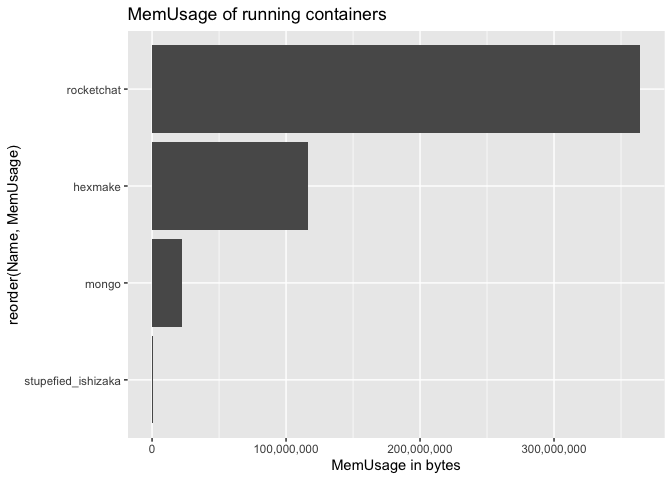
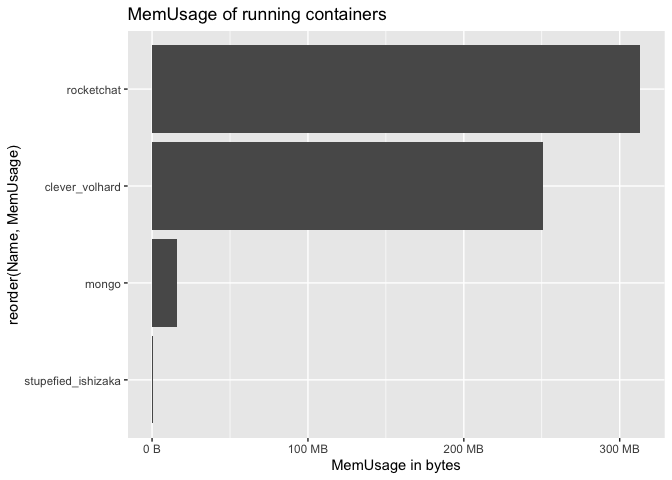
label_bytes()

diff --git a/README.md b/README.md
@@ -36,21 +36,25 @@ By default, `dockerstats()` returns the stats for running containers.
 ``` r
 dockerstats()
 #>      Container               Name
-#> 1 7f3b0a08a7aa stupefied_ishizaka
-#> 2 1c32d35562fb         rocketchat
-#> 3 9e9605a015d4              mongo
+#> 1 3ed5a6b4b8d0     clever_volhard
+#> 2 7f3b0a08a7aa stupefied_ishizaka
+#> 3 1c32d35562fb         rocketchat
+#> 4 9e9605a015d4              mongo
 #>                                                                 ID CPUPerc
-#> 1 7f3b0a08a7aa502657d0d5459f9cd412f0399825f8e15262bf47fe0cd4cc825d    0.00
-#> 2 1c32d35562fbd442c75e132e4075f379fc2097293a1ab0b5361debf2d4ab74cb    0.93
-#> 3 9e9605a015d4378283947ed16f547a8272039ec853b4962010203204d2c05167    2.99
-#>   MemUsage MemLimit MemPerc   NetI   NetO BlockI BlockO PIDs
-#> 1   516KiB 1.943GiB    0.03 9.59kB     0B     0B     0B    1
-#> 2 347.2MiB 1.943GiB   17.45  121MB 98.4MB     0B     0B   12
-#> 3 21.32MiB 1.943GiB    1.07 98.3MB  120MB     0B     0B   55
-#>           record_time extra
-#> 1 2020-04-11 23:39:56      
-#> 2 2020-04-11 23:39:56      
-#> 3 2020-04-11 23:39:56
+#> 1 3ed5a6b4b8d0540f93f04f46411c8559fc2b942d1c7b5122ac956189508d5372    0.10
+#> 2 7f3b0a08a7aa502657d0d5459f9cd412f0399825f8e15262bf47fe0cd4cc825d    0.00
+#> 3 1c32d35562fbd442c75e132e4075f379fc2097293a1ab0b5361debf2d4ab74cb    0.58
+#> 4 9e9605a015d4378283947ed16f547a8272039ec853b4962010203204d2c05167    2.93
+#>   MemUsage MemLimit MemPerc   NetI  NetO BlockI BlockO PIDs         record_time
+#> 1 239.2MiB 1.943GiB   12.02 31.4kB 644kB     0B     0B    4 2020-04-13 12:02:55
+#> 2   332KiB 1.943GiB    0.02 14.4kB    0B     0B     0B    1 2020-04-13 12:02:55
+#> 3   299MiB 1.943GiB   15.03  176MB 144MB     0B     0B   12 2020-04-13 12:02:55
+#> 4 15.18MiB 1.943GiB    0.76  144MB 176MB     0B     0B   55 2020-04-13 12:02:55
+#>   extra
+#> 1      
+#> 2      
+#> 3      
+#> 4
 ```
 
 You can return stats for all containers (not just running)
@@ -58,93 +62,97 @@ You can return stats for all containers (not just running)
 ``` r
 dockerstats(all = TRUE)
 #>       Container                    Name
-#> 1  dbcf81982870   mystifying_hofstadter
-#> 2  841be05ca06f           nice_einstein
-#> 3  bdac8ae662bd           rocketchating
-#> 4  ad640c7420ea     compassionate_ellis
-#> 5  ea890803de3c           sleepy_colden
-#> 6  5cef479fec0e           boring_swartz
-#> 7  658ed62c82ed            elegant_pare
-#> 8  d74bd9004627          exciting_yalow
-#> 9  f5cb6430e103      gallant_lichterman
-#> 10 f8c3f4b47931 heuristic_proskuriakova
-#> 11 1a8588105357          pedantic_booth
-#> 12 7c16ac79e629           focused_chaum
-#> 13 e2f0dc1dab14           boring_liskov
-#> 14 7f3b0a08a7aa      stupefied_ishizaka
-#> 15 194f087c356e       boring_mcclintock
-#> 16 7f575179ad72       flamboyant_sammet
-#> 17 82b75a1bdbe8                    jack
-#> 18 5b1197c61bfb                   login
-#> 19 ca323ae39e42                   proxy
-#> 20 1c32d35562fb              rocketchat
-#> 21 9e9605a015d4                   mongo
+#> 1  3ed5a6b4b8d0          clever_volhard
+#> 2  dbcf81982870   mystifying_hofstadter
+#> 3  841be05ca06f           nice_einstein
+#> 4  bdac8ae662bd           rocketchating
+#> 5  ad640c7420ea     compassionate_ellis
+#> 6  ea890803de3c           sleepy_colden
+#> 7  5cef479fec0e           boring_swartz
+#> 8  658ed62c82ed            elegant_pare
+#> 9  d74bd9004627          exciting_yalow
+#> 10 f5cb6430e103      gallant_lichterman
+#> 11 f8c3f4b47931 heuristic_proskuriakova
+#> 12 1a8588105357          pedantic_booth
+#> 13 7c16ac79e629           focused_chaum
+#> 14 e2f0dc1dab14           boring_liskov
+#> 15 7f3b0a08a7aa      stupefied_ishizaka
+#> 16 194f087c356e       boring_mcclintock
+#> 17 7f575179ad72       flamboyant_sammet
+#> 18 82b75a1bdbe8                    jack
+#> 19 5b1197c61bfb                   login
+#> 20 ca323ae39e42                   proxy
+#> 21 1c32d35562fb              rocketchat
+#> 22 9e9605a015d4                   mongo
 #>                                                                  ID CPUPerc
-#> 1  dbcf81982870c42b73534e3e1e41ad5871c0dcb3d4f9b4b8a97b71f4d1bd5eb2    0.00
-#> 2  841be05ca06f9b96fce842e426fc2d23a5ce968c898bd401ddcd7057ae790ac7    0.00
-#> 3  bdac8ae662bd5c4b647fad89b73c95a66f84406a07d9e1c4e0db5a0eff33ad6b    0.00
-#> 4  ad640c7420ea021453866e974666b7337885220238dadd3b717fa42bc51f3b26    0.00
-#> 5  ea890803de3c6bf430c39b4c9e03ae79f18a01f453fe6794ca2d02882c2f905b    0.00
-#> 6  5cef479fec0e5a8ab1b8940364ff4779e4abb2adfd2a9f8dbe1f6f470cb5d9c1    0.00
-#> 7  658ed62c82edbb32979c2adac7ad75ce65b41bfb7044758e34c79d45804a6f31    0.00
-#> 8  d74bd9004627efa518ea0fe669434fa6ccd2f86491e39311c9211bfb860839e2    0.00
-#> 9  f5cb6430e103fc3c0e57942e8a96f84ffc55f4006cd089e1be5a82bfec808935    0.00
-#> 10 f8c3f4b4793146069b336db2ec8d96732920eac759991138ba0695d05a8e2de6    0.00
-#> 11 1a8588105357e77d1e284615d7461a259c41f654c5db66e3b8964fa5395a4d65    0.00
-#> 12 7c16ac79e629e7d74137840876561733614aea265c4876c360160cd258e85d5f    0.00
-#> 13 e2f0dc1dab146b1b0418f3cd620fdaa0ba40645aa822b10261e8ba221499aaa2    0.00
-#> 14 7f3b0a08a7aa502657d0d5459f9cd412f0399825f8e15262bf47fe0cd4cc825d    0.00
-#> 15 194f087c356e992778f8ddac61eeb4e4e107caee43af8c1d8072e6aad425f97a    0.00
-#> 16 7f575179ad72079840887cd52ad0fe5a97313d4864414e35660c8740265351ff    0.00
-#> 17 82b75a1bdbe8ce1750210646c02a4dd24c0113c162de2f58d6534c0b25e8b2f0    0.00
-#> 18 5b1197c61bfba9614ccea0c69f9ae048e44e85ac0e64f36f240bc9220f962f5d    0.00
-#> 19 ca323ae39e42d898417b019b2bf7f06feaf877d248cd71b9cad8eebc3f5e1126    0.00
-#> 20 1c32d35562fbd442c75e132e4075f379fc2097293a1ab0b5361debf2d4ab74cb    4.71
-#> 21 9e9605a015d4378283947ed16f547a8272039ec853b4962010203204d2c05167    2.92
-#>    MemUsage MemLimit MemPerc   NetI   NetO BlockI BlockO PIDs
-#> 1        0B       0B    0.00     0B     0B     0B     0B    0
-#> 2        0B       0B    0.00     0B     0B     0B     0B    0
-#> 3        0B       0B    0.00     0B     0B     0B     0B    0
-#> 4        0B       0B    0.00     0B     0B     0B     0B    0
-#> 5        0B       0B    0.00     0B     0B     0B     0B    0
-#> 6        0B       0B    0.00     0B     0B     0B     0B    0
-#> 7        0B       0B    0.00     0B     0B     0B     0B    0
-#> 8        0B       0B    0.00     0B     0B     0B     0B    0
-#> 9        0B       0B    0.00     0B     0B     0B     0B    0
-#> 10       0B       0B    0.00     0B     0B     0B     0B    0
-#> 11       0B       0B    0.00     0B     0B     0B     0B    0
-#> 12       0B       0B    0.00     0B     0B     0B     0B    0
-#> 13       0B       0B    0.00     0B     0B     0B     0B    0
-#> 14   516KiB 1.943GiB    0.03 9.59kB     0B     0B     0B    1
-#> 15       0B       0B    0.00     0B     0B     0B     0B    0
-#> 16       0B       0B    0.00     0B     0B     0B     0B    0
-#> 17       0B       0B    0.00     0B     0B     0B     0B    0
-#> 18       0B       0B    0.00     0B     0B     0B     0B    0
-#> 19       0B       0B    0.00     0B     0B     0B     0B    0
-#> 20 347.6MiB 1.943GiB   17.47  121MB 98.4MB     0B     0B   12
-#> 21 21.32MiB 1.943GiB    1.07 98.3MB  120MB     0B     0B   55
+#> 1  3ed5a6b4b8d0540f93f04f46411c8559fc2b942d1c7b5122ac956189508d5372    0.11
+#> 2  dbcf81982870c42b73534e3e1e41ad5871c0dcb3d4f9b4b8a97b71f4d1bd5eb2    0.00
+#> 3  841be05ca06f9b96fce842e426fc2d23a5ce968c898bd401ddcd7057ae790ac7    0.00
+#> 4  bdac8ae662bd5c4b647fad89b73c95a66f84406a07d9e1c4e0db5a0eff33ad6b    0.00
+#> 5  ad640c7420ea021453866e974666b7337885220238dadd3b717fa42bc51f3b26    0.00
+#> 6  ea890803de3c6bf430c39b4c9e03ae79f18a01f453fe6794ca2d02882c2f905b    0.00
+#> 7  5cef479fec0e5a8ab1b8940364ff4779e4abb2adfd2a9f8dbe1f6f470cb5d9c1    0.00
+#> 8  658ed62c82edbb32979c2adac7ad75ce65b41bfb7044758e34c79d45804a6f31    0.00
+#> 9  d74bd9004627efa518ea0fe669434fa6ccd2f86491e39311c9211bfb860839e2    0.00
+#> 10 f5cb6430e103fc3c0e57942e8a96f84ffc55f4006cd089e1be5a82bfec808935    0.00
+#> 11 f8c3f4b4793146069b336db2ec8d96732920eac759991138ba0695d05a8e2de6    0.00
+#> 12 1a8588105357e77d1e284615d7461a259c41f654c5db66e3b8964fa5395a4d65    0.00
+#> 13 7c16ac79e629e7d74137840876561733614aea265c4876c360160cd258e85d5f    0.00
+#> 14 e2f0dc1dab146b1b0418f3cd620fdaa0ba40645aa822b10261e8ba221499aaa2    0.00
+#> 15 7f3b0a08a7aa502657d0d5459f9cd412f0399825f8e15262bf47fe0cd4cc825d    0.00
+#> 16 194f087c356e992778f8ddac61eeb4e4e107caee43af8c1d8072e6aad425f97a    0.00
+#> 17 7f575179ad72079840887cd52ad0fe5a97313d4864414e35660c8740265351ff    0.00
+#> 18 82b75a1bdbe8ce1750210646c02a4dd24c0113c162de2f58d6534c0b25e8b2f0    0.00
+#> 19 5b1197c61bfba9614ccea0c69f9ae048e44e85ac0e64f36f240bc9220f962f5d    0.00
+#> 20 ca323ae39e42d898417b019b2bf7f06feaf877d248cd71b9cad8eebc3f5e1126    0.00
+#> 21 1c32d35562fbd442c75e132e4075f379fc2097293a1ab0b5361debf2d4ab74cb    0.13
+#> 22 9e9605a015d4378283947ed16f547a8272039ec853b4962010203204d2c05167    2.59
+#>    MemUsage MemLimit MemPerc   NetI  NetO BlockI BlockO PIDs
+#> 1  239.2MiB 1.943GiB   12.02 31.4kB 644kB     0B     0B    4
+#> 2        0B       0B    0.00     0B    0B     0B     0B    0
+#> 3        0B       0B    0.00     0B    0B     0B     0B    0
+#> 4        0B       0B    0.00     0B    0B     0B     0B    0
+#> 5        0B       0B    0.00     0B    0B     0B     0B    0
+#> 6        0B       0B    0.00     0B    0B     0B     0B    0
+#> 7        0B       0B    0.00     0B    0B     0B     0B    0
+#> 8        0B       0B    0.00     0B    0B     0B     0B    0
+#> 9        0B       0B    0.00     0B    0B     0B     0B    0
+#> 10       0B       0B    0.00     0B    0B     0B     0B    0
+#> 11       0B       0B    0.00     0B    0B     0B     0B    0
+#> 12       0B       0B    0.00     0B    0B     0B     0B    0
+#> 13       0B       0B    0.00     0B    0B     0B     0B    0
+#> 14       0B       0B    0.00     0B    0B     0B     0B    0
+#> 15   332KiB 1.943GiB    0.02 14.4kB    0B     0B     0B    1
+#> 16       0B       0B    0.00     0B    0B     0B     0B    0
+#> 17       0B       0B    0.00     0B    0B     0B     0B    0
+#> 18       0B       0B    0.00     0B    0B     0B     0B    0
+#> 19       0B       0B    0.00     0B    0B     0B     0B    0
+#> 20       0B       0B    0.00     0B    0B     0B     0B    0
+#> 21 299.1MiB 1.943GiB   15.03  176MB 144MB     0B     0B   12
+#> 22 15.18MiB 1.943GiB    0.76  144MB 176MB     0B     0B   55
 #>            record_time extra
-#> 1  2020-04-11 23:39:58      
-#> 2  2020-04-11 23:39:58      
-#> 3  2020-04-11 23:39:58      
-#> 4  2020-04-11 23:39:58      
-#> 5  2020-04-11 23:39:58      
-#> 6  2020-04-11 23:39:58      
-#> 7  2020-04-11 23:39:58      
-#> 8  2020-04-11 23:39:58      
-#> 9  2020-04-11 23:39:58      
-#> 10 2020-04-11 23:39:58      
-#> 11 2020-04-11 23:39:58      
-#> 12 2020-04-11 23:39:58      
-#> 13 2020-04-11 23:39:58      
-#> 14 2020-04-11 23:39:58      
-#> 15 2020-04-11 23:39:58      
-#> 16 2020-04-11 23:39:58      
-#> 17 2020-04-11 23:39:58      
-#> 18 2020-04-11 23:39:58      
-#> 19 2020-04-11 23:39:58      
-#> 20 2020-04-11 23:39:58      
-#> 21 2020-04-11 23:39:58
+#> 1  2020-04-13 12:02:58      
+#> 2  2020-04-13 12:02:58      
+#> 3  2020-04-13 12:02:58      
+#> 4  2020-04-13 12:02:58      
+#> 5  2020-04-13 12:02:58      
+#> 6  2020-04-13 12:02:58      
+#> 7  2020-04-13 12:02:58      
+#> 8  2020-04-13 12:02:58      
+#> 9  2020-04-13 12:02:58      
+#> 10 2020-04-13 12:02:58      
+#> 11 2020-04-13 12:02:58      
+#> 12 2020-04-13 12:02:58      
+#> 13 2020-04-13 12:02:58      
+#> 14 2020-04-13 12:02:58      
+#> 15 2020-04-13 12:02:58      
+#> 16 2020-04-13 12:02:58      
+#> 17 2020-04-13 12:02:58      
+#> 18 2020-04-13 12:02:58      
+#> 19 2020-04-13 12:02:58      
+#> 20 2020-04-13 12:02:58      
+#> 21 2020-04-13 12:02:58      
+#> 22 2020-04-13 12:02:58
 ```
 
 Or from a subset of containers:
@@ -155,11 +163,11 @@ dockerstats("mongo", "proxy")
 #> 1     mongo mongo
 #> 2     proxy proxy
 #>                                                                 ID CPUPerc
-#> 1 9e9605a015d4378283947ed16f547a8272039ec853b4962010203204d2c05167    2.57
+#> 1 9e9605a015d4378283947ed16f547a8272039ec853b4962010203204d2c05167    2.98
 #> 2 ca323ae39e42d898417b019b2bf7f06feaf877d248cd71b9cad8eebc3f5e1126    0.00
-#>   MemUsage MemLimit MemPerc   NetI  NetO BlockI BlockO PIDs         record_time
-#> 1 21.33MiB 1.943GiB    1.07 98.3MB 120MB     0B     0B   55 2020-04-11 23:40:00
-#> 2       0B       0B    0.00     0B    0B     0B     0B    0 2020-04-11 23:40:00
+#>   MemUsage MemLimit MemPerc  NetI  NetO BlockI BlockO PIDs         record_time
+#> 1 15.16MiB 1.943GiB    0.76 144MB 176MB     0B     0B   55 2020-04-13 12:03:00
+#> 2       0B       0B    0.00    0B    0B     0B     0B    0 2020-04-13 12:03:00
 #>   extra
 #> 1      
 #> 2
@@ -183,13 +191,12 @@ chrome <- Chrome$new(
 )
 
 client <- chrome$connect(callback = function(client) {
-  client
+  Page <- client$Page
+  Page$navigate(url = "http://localhost:2811")
+  print({
+    dockerstats::dockerstats("hexmake", extra = "Connection via chrome")
+  })
 })
-
-Page <- client$Page
-Page$navigate(url = "http://localhost:2811")
-
-dockerstats::dockerstats("hexmake", extra = "Connection via chrome")
 
 chrome$close()
 ```
@@ -255,13 +262,13 @@ by `{dockerstats}`).
 dock_stats <- dockerstats()
 
 sort(dock_stats$MemUsage)
-#> [1] "110.9MiB" "21.29MiB" "347.5MiB" "516KiB"
+#> [1] "15.14MiB" "239.2MiB" "298.7MiB" "332KiB"
 
 dock_stats$MemUsage <- fs::as_fs_bytes(
   dock_stats$MemUsage
 )
 sort(dock_stats$MemUsage)
-#> 516K  21.3M 110.9M 347.5M
+#> 332K  15.1M 239.2M 298.7M
 ```
 
 ``` r
@@ -273,7 +280,7 @@ ggplot(
     MemUsage)
 ) + 
   geom_col() +
-  scale_y_continuous(labels = scales::comma) + 
+  scale_y_continuous(labels = scales::label_bytes()) + 
   coord_flip() + 
   labs(
     title = "MemUsage of running containers", 
